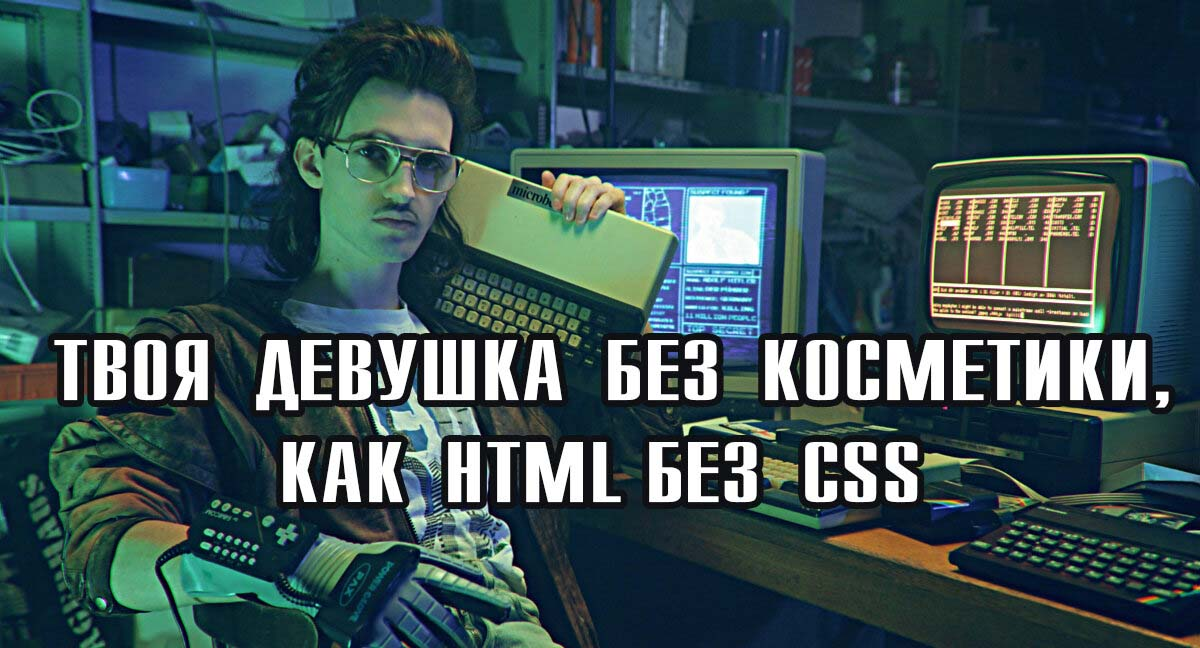
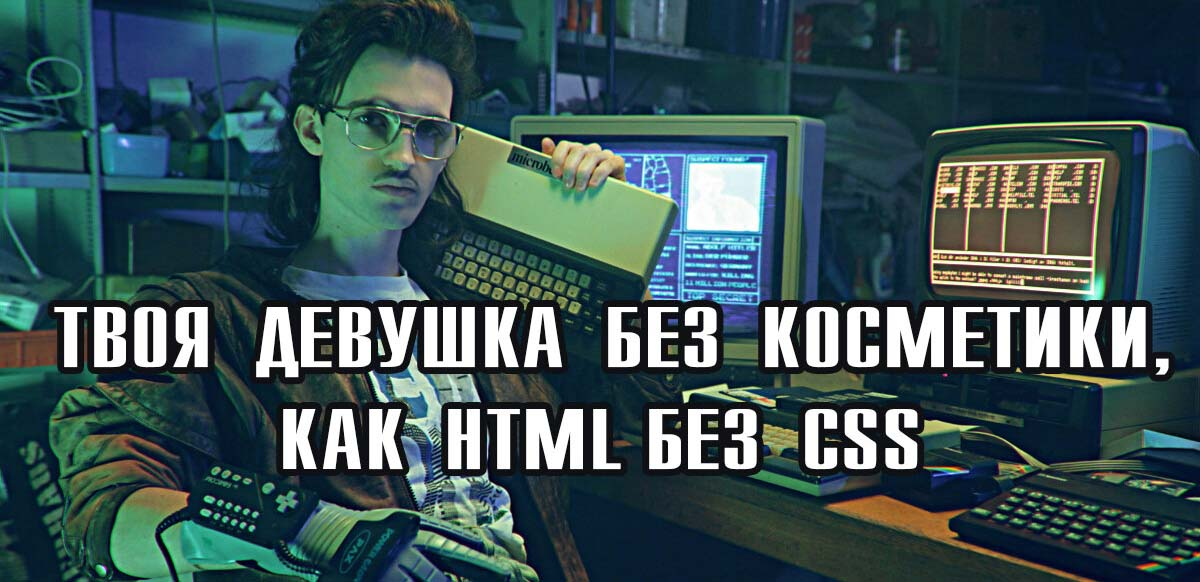
feat: resize pictures and html/css add (Sat, Oct 16, 2021 03:16:24 AM)

diff --git a/cssMemSlider/style.css b/cssMemSlider/style.css
@@ -20,7 +20,7 @@ html,body{
 	width: 100%;
 	font-size: 100%;
 	line-height: 1;
-	font-size: 14px;
+	
 	-ms-text-size-adjust: 100%;
 	-moz-text-size-adjust: 100%;
 	-webkit-text-size-adjust: 100%;
@@ -39,7 +39,7 @@ html, body { background-color: #000000}
 .wrapper {
     padding: 3% 10%;
     height: 100vh;
-    position: relative;
+    
 }
 .css-slides {
     padding: 0;
@@ -50,7 +50,7 @@ html, body { background-color: #000000}
     width:100%;
     max-width:100%;
     object-fit: cover;
-    height:80vh;
+    height:auto;
     border-radius: 5%;
     border:2px solid rgba(223, 104, 104, 0.8);
 }
@@ -78,6 +78,7 @@ input:checked + .slide-container { display: block; }
     transition: all 1s ease-in-out;
     font-size:1.5rem;
     margin-top:5vh;
+    
 }
 
 input:checked + .slide-container  .slide {
@@ -93,8 +94,9 @@ input:checked + .slide-container .slide-description {
 
 .nav-dots {
 	width: 10%;
+    max-width:20%;
 	text-align: center;
-    margin-top: 5.5vh;
+    margin-top: 2vh;
     float: right;
     
     
@@ -123,24 +125,23 @@ input#img-4:checked ~ .nav-dots label#img-dot-4{
 	background-color: transparent;
     border: 2px solid rgba(223, 104, 104, 0.8);
 }
-/* 
 
-
-
-
-
-.slide:hover { opacity: 0.5; }
-
-.nav-dots .nav-dot:hover {
-	cursor: pointer;
-	background-color: rgba(0, 0, 0, 0.8);
+@media(max-width:380px){
+    .slide-container{
+       
+        height:50vh;
+    }
+    .next{
+        margin-top: -50vh;
+    }
+.slide img{
+    
+    height:auto;;
+    
 }
-
-input#img-1:checked ~ .nav-dots label#img-dot-1,
-input#img-2:checked ~ .nav-dots label#img-dot-2,
-input#img-3:checked ~ .nav-dots label#img-dot-3,
-input#img-4:checked ~ .nav-dots label#img-dot-4,
-input#img-5:checked ~ .nav-dots label#img-dot-5,
-input#img-6:checked ~ .nav-dots label#img-dot-6 {
-	background: rgba(0, 0, 0, 0.8);
-} */
+.wrapper {
+    padding: 3% 5%;
+   
+    
+}
+}
